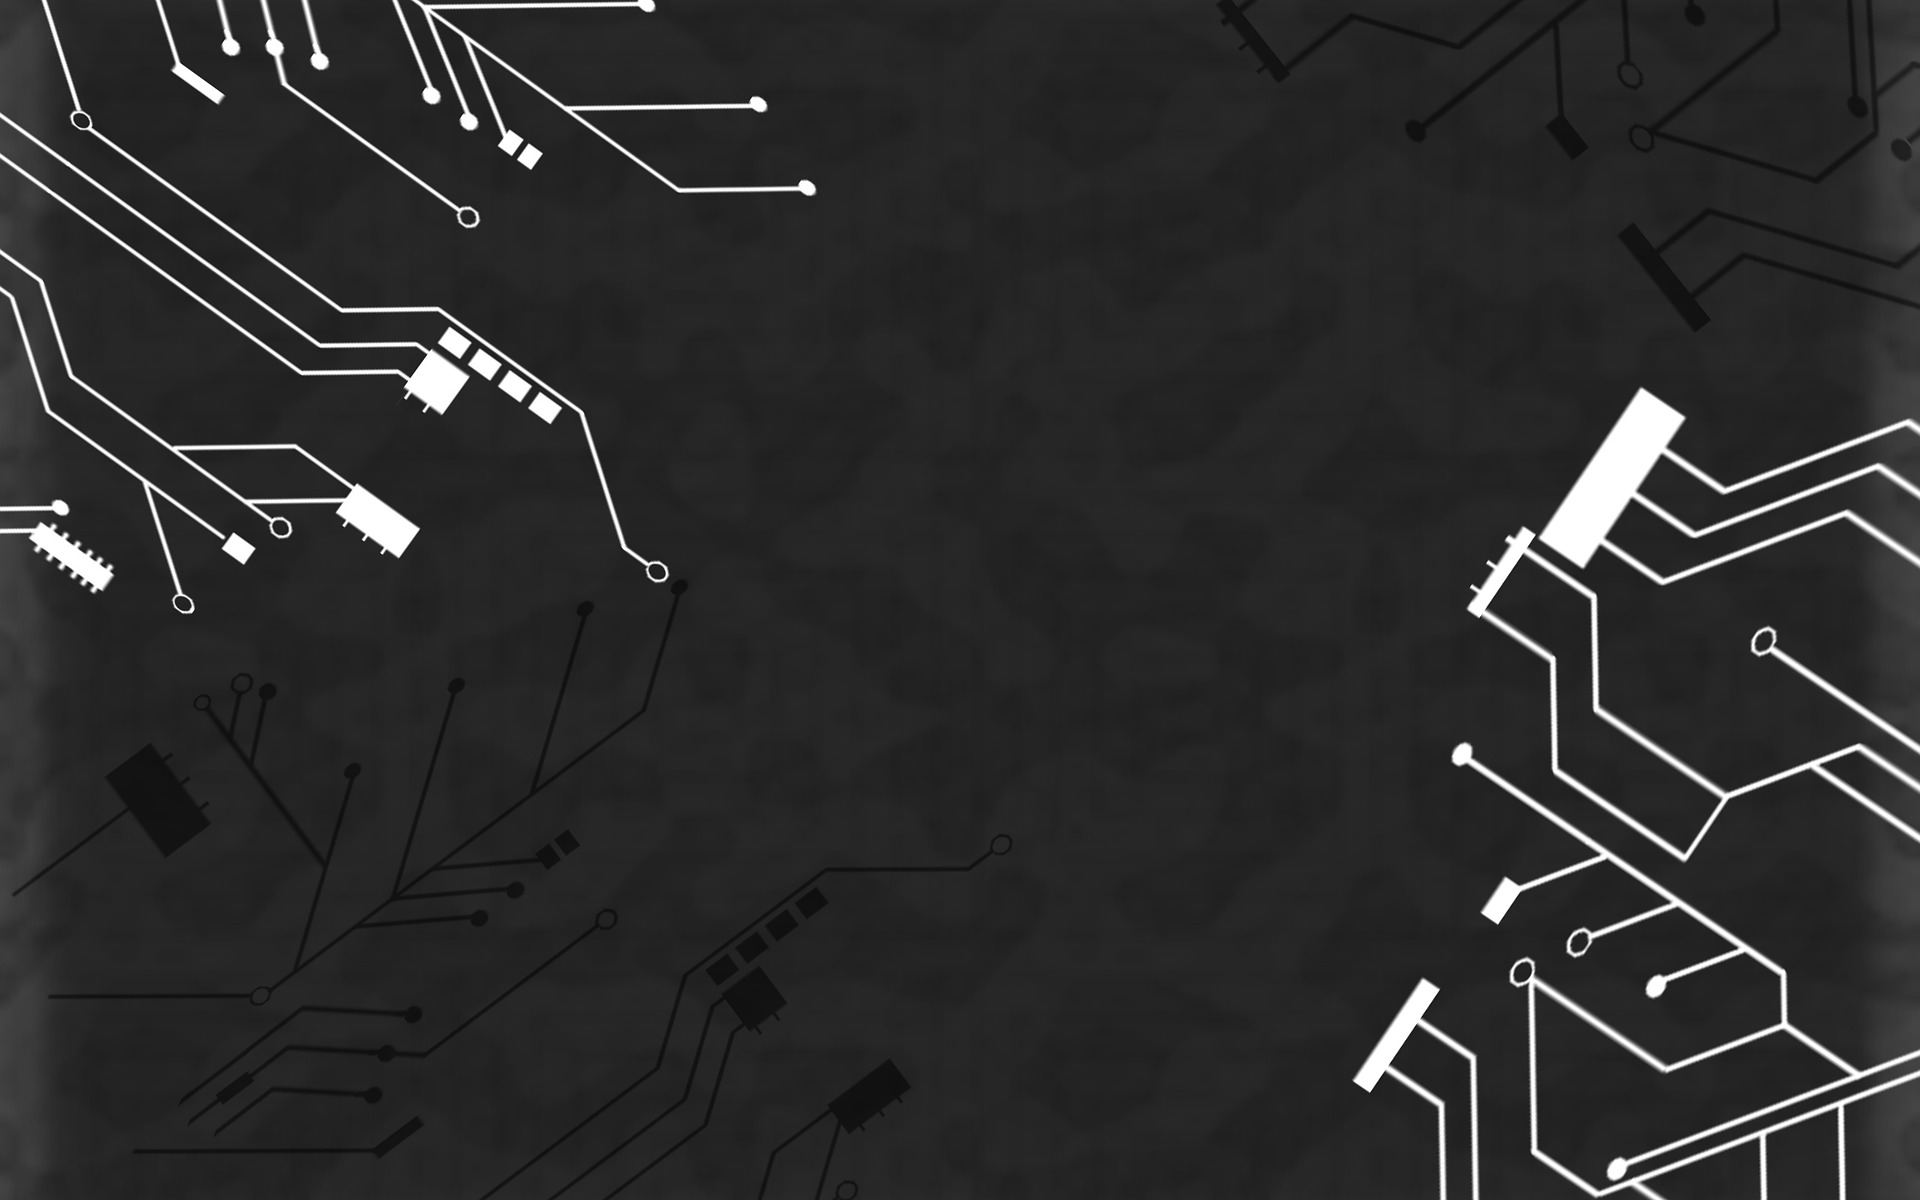
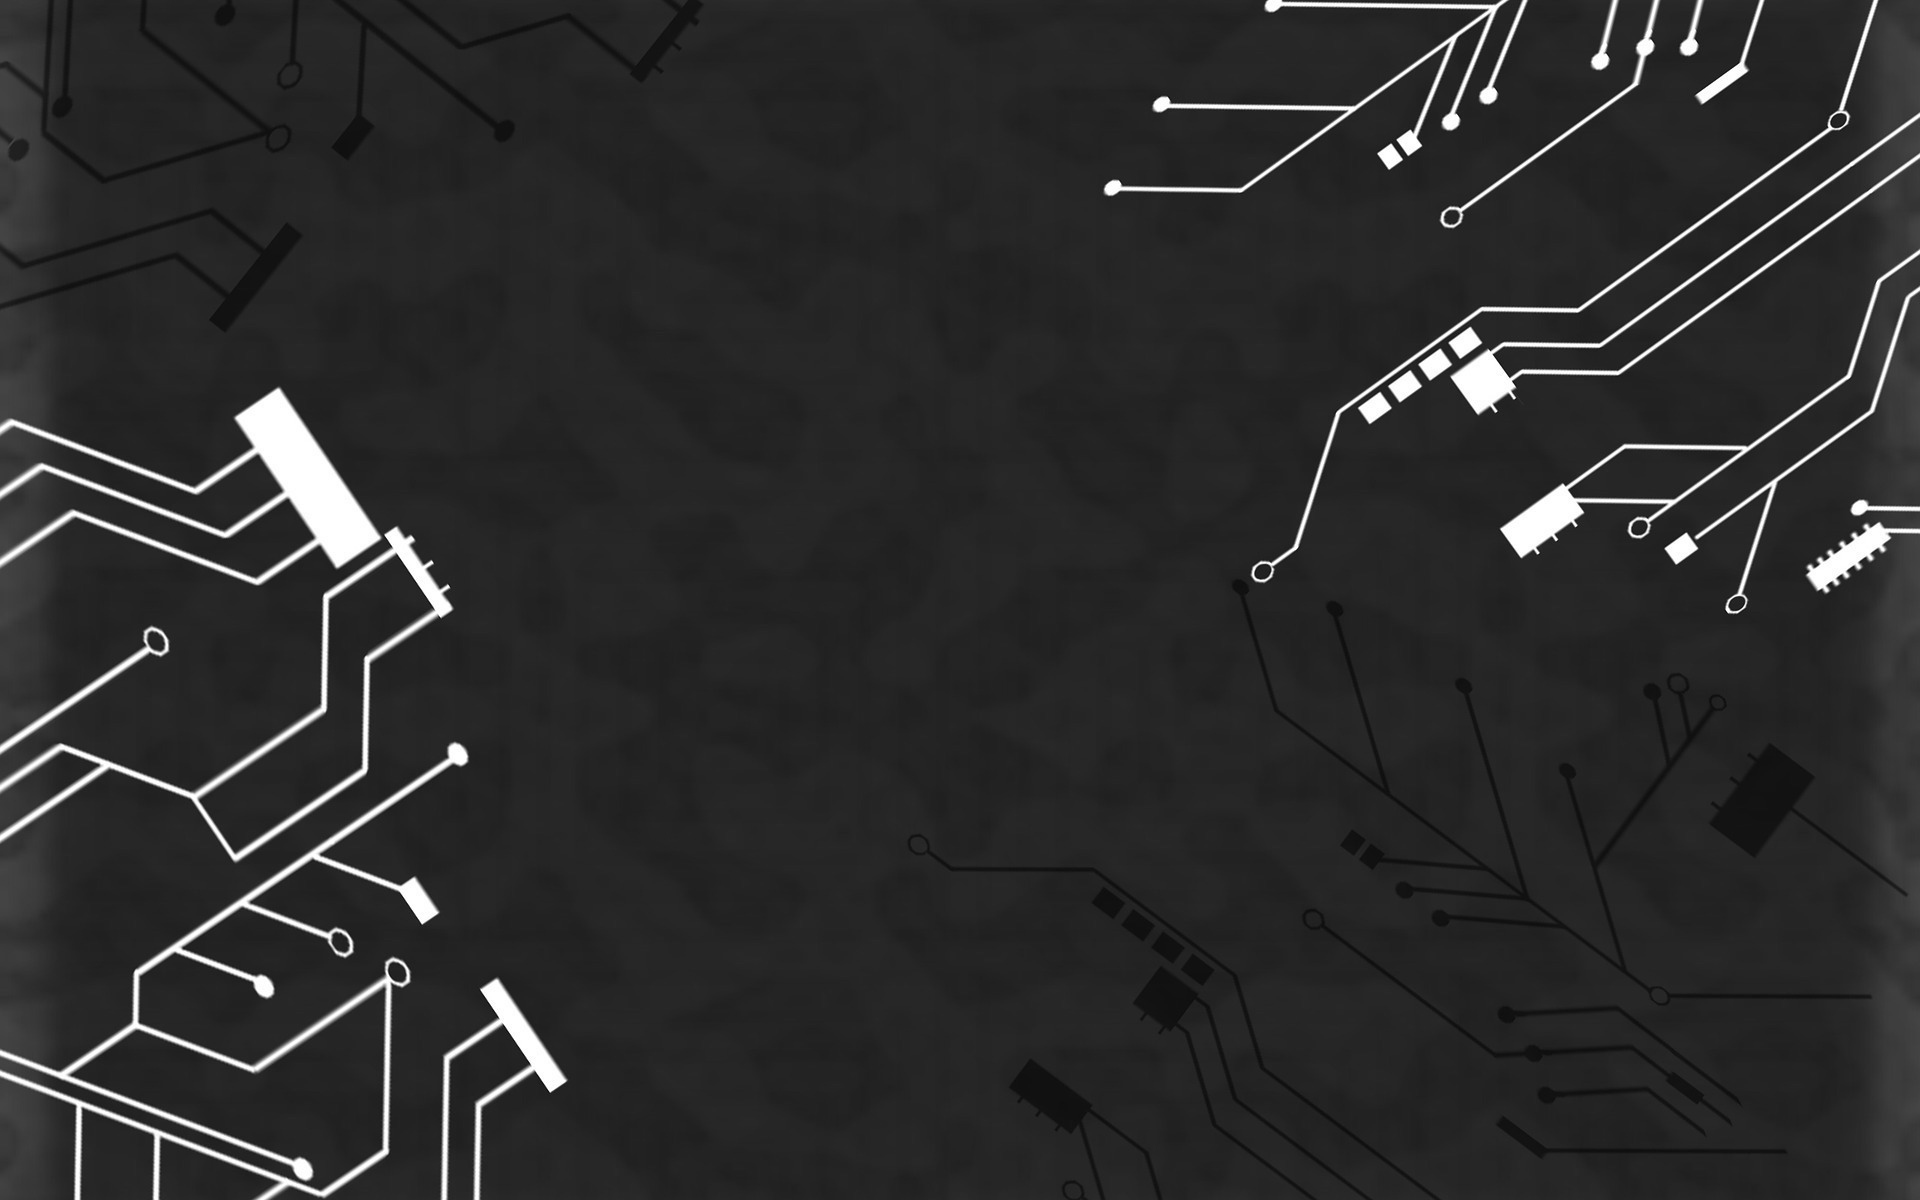
contact buttons and hover updated

diff --git a/app/public/index.html b/app/public/index.html
@@ -24,10 +24,13 @@
     <script src="https://maxcdn.bootstrapcdn.com/bootstrap/3.3.7/js/bootstrap.min.js" integrity="sha384-Tc5IQib027qvyjSMfHjOMaLkfuWVxZxUPnCJA7l2mCWNIpG9mGCD8wGNIcPD7Txa" crossorigin="anonymous"></script>
 
     <!-- jQuery -->
-    <script src="http://ajax.googleapis.com/ajax/libs/jquery/1.5.1/jquery.min.js"></script>
+    <script src="https://ajax.googleapis.com/ajax/libs/jquery/3.2.1/jquery.min.js"></script>
+    <script src="https://maxcdn.bootstrapcdn.com/bootstrap/3.3.7/js/bootstrap.min.js"></script>
 
     <!--Style CSS -->
     <link rel="stylesheet" type="text/css" href="./css/style.css">
+
+
 
 </head>
 
@@ -51,14 +54,10 @@
         <div class="site-wrapper-inner">
 
             <div class="cover-container">
-                <div class="inner cover">
-                    <div class="page-header">
-                        <h1>{ADM} <small>ASHLEY D MACWHIRTER</small></h1>
-                    </div>
+                        <h1 class="adm">{ADM} <small>ASHLEY D MACWHIRTER</small></h1>
                     <p class="lead">
                         <h2><small>FULL STACK WEB DEVELOPER</small></h1>
                     </p>
-                </div>
             </div>
         </div>
     </div>
@@ -98,20 +97,20 @@
                             <div class="well well-lg">
                                 <h3>Front-End</h3>
                                 <hr>
-                                <i class="devicon devicon-html5-plain colored"></i>
-                                <i class="devicon devicon-css3-plain colored"></i>
-                                <i class="devicon devicon-atom-original colored"></i>
-                                <i class="devicon devicon-babel-plain colored"></i>
-                                <i class="devicon devicon-bootstrap-plain colored"></i>
-                                <i class="devicon devicon-d3js-plain colored"></i>
-                                <i class="devicon devicon-gimp-plain colored"></i>
-                                <i class="devicon devicon-javascript-plain colored"></i>
-                                <i class="devicon devicon-jquery-plain colored"></i>
-                                <i class="devicon devicon-meteor-plain colored"></i>
-                                <i class="devicon devicon-photoshop-plain colored"></i>
-                                <i class="devicon devicon-react-original colored"></i>
-                                <i class="devicon devicon-visualstudio-plain colored"></i>
-                                <i class="devicon devicon-nodejs-plain colored"></i>
+                                <i class="devicon devicon-html5-plain colored" data-toggle="tooltip" data-placement="bottom" title="HTML5"></i>
+                                <i class="devicon devicon-css3-plain colored" data-toggle="tooltip" data-placement="bottom" title="CSS3"></i>
+                                <i class="devicon devicon-atom-original colored" data-toggle="tooltip" data-placement="bottom" title="Atom"></i>
+                                <i class="devicon devicon-babel-plain colored" data-toggle="tooltip" data-placement="bottom" title="Babel"></i>
+                                <i class="devicon devicon-bootstrap-plain colored" data-toggle="tooltip" data-placement="bottom" title="Bootstrap"></i>
+                                <i class="devicon devicon-d3js-plain colored" data-toggle="tooltip" data-placement="bottom" title="D3"></i>
+                                <i class="devicon devicon-gimp-plain colored" data-toggle="tooltip" data-placement="bottom" title="Gimp"></i>
+                                <i class="devicon devicon-javascript-plain colored" data-toggle="tooltip" data-placement="bottom" title="JavaScript"></i>
+                                <i class="devicon devicon-jquery-plain colored" data-toggle="tooltip" data-placement="bottom" title="jQuery"></i>
+                                <i class="devicon devicon-meteor-plain colored" data-toggle="tooltip" data-placement="bottom" title="Meteor"></i>
+                                <i class="devicon devicon-photoshop-plain colored" data-toggle="tooltip" data-placement="bottom" title="Photoshop"></i>
+                                <i class="devicon devicon-react-original colored" data-toggle="tooltip" data-placement="bottom" title="React"></i>
+                                <i class="devicon devicon-visualstudio-plain colored" data-toggle="tooltip" data-placement="bottom" title="Visual Studio"></i>
+                                <i class="devicon devicon-nodejs-plain colored" data-toggle="tooltip" data-placement="bottom" title="Node.js"></i>
 
                             </div>
                         </div>
@@ -119,16 +118,16 @@
                             <div class="well well-lg">
                                 <h3>Back-End</h3>
                                 <hr>
-                                <i class="devicon devicon-csharp-plain colored"></i>
-                                <i class="devicon devicon-github-plain"></i>
-                                <i class="devicon devicon-gitlab-plain colored"></i>
-                                <i class="devicon devicon-git-plain colored"></i>
-                                <i class="devicon devicon-heroku-plain colored"></i>
-                                <i class="devicon devicon-mongodb-plain colored"></i>
-                                <i class="devicon devicon-mysql-plain colored"></i>
-                                <i class="devicon devicon-sequelize-plain colored"></i>
-                                <i class="devicon devicon-webpack-plain colored"></i>
-                                <i class="devicon devicon-dot-net-plain colored"></i>
+                                <i class="devicon devicon-csharp-plain colored" data-toggle="tooltip" data-placement="bottom" title="C#"></i>
+                                <i class="devicon devicon-github-plain" data-toggle="tooltip" data-placement="bottom" title="GitHub"></i>
+                                <i class="devicon devicon-gitlab-plain colored" data-toggle="tooltip" data-placement="bottom" title="GitLab"></i>
+                                <i class="devicon devicon-git-plain colored" data-toggle="tooltip" data-placement="bottom" title="Git"></i>
+                                <i class="devicon devicon-heroku-plain colored" data-toggle="tooltip" data-placement="bottom" title="Heroku"></i>
+                                <i class="devicon devicon-mongodb-plain colored" data-toggle="tooltip" data-placement="bottom" title="MongoDB"></i>
+                                <i class="devicon devicon-mysql-plain colored" data-toggle="tooltip" data-placement="bottom" title="mySQL"></i>
+                                <i class="devicon devicon-sequelize-plain colored" data-toggle="tooltip" data-placement="bottom" title="Sequelize"></i>
+                                <i class="devicon devicon-webpack-plain colored" data-toggle="tooltip" data-placement="bottom" title="Webpack"></i>
+                                <i class="devicon devicon-dot-net-plain colored" data-toggle="tooltip" data-placement="bottom" title=".NET"></i>
 
                             </div>
                         </div>
@@ -182,46 +181,23 @@
                     <div class="row">
                         <h2> CONTACT ME <span class="text-muted"> {say hello}</span></h2><br>
                         <h4>Ashley D. MacWhirter</h4>
-                        <h4>contact@amacwhirter.com</h4>
-                        <h4>(256) 975-8929</h4>
-                        <h4>Atlanta, Georgia</h4><br>
-                        <a href="https://github.com/amacwhirter" class="fa fa-github" aria-hidden="true" target="_blank"></a>
-                        <a href="https://www.linkedin.com/in/amacwhirter/" class="fa fa-linkedin-square" aria-hidden="true" target="_blank"></a>
-                        <a href="https://stackoverflow.com/users/7396764/ashley-macwhirter" class="fa fa-stack-overflow" aria-hidden="true" target="_blank"></a>
-                        <a href="#" class="fa fa-file-pdf-o" aria-hidden="true"></a>
-                        <a href="#" class="fa fa-envelope" aria-hidden="true"></a>
+                        <h4><i class="fa fa-envelope" aria-hidden="true"></i>  contact@amacwhirter.com
+                        <i class="fa fa-phone" aria-hidden="true"></i> (256) 975-8929
+                        <i class="fa fa-map-marker" aria-hidden="true"></i> Atlanta, Georgia</h4><br>
+                        <a href="https://github.com/amacwhirter" class="fa fa-github" aria-hidden="true" target="_blank" data-toggle="tooltip" data-placement="left" title="GitHub"></a>
+                        <a href="https://www.linkedin.com/in/amacwhirter/" class="fa fa-linkedin-square" aria-hidden="true" target="_blank" data-toggle="tooltip" data-placement="left" title="LinkedIn"></a>
+                        <a href="https://stackoverflow.com/users/7396764/ashley-macwhirter" class="fa fa-stack-overflow" aria-hidden="true" target="_blank" data-toggle="tooltip" data-placement="left" title="StackOverflow"></a>
+                        <a href="/images/amacwhirter.pdf" download class="fa fa-file-pdf-o" aria-hidden="true" data-toggle="tooltip" data-placement="left" title="Download My Resume"></a>
+                        <a href="mailto:contact@amacwhirter.com?Subject=Hello Ashley!" target="_top" class="fa fa-envelope-o" aria-hidden="true" data-toggle="tooltip" data-placement="left" title="Send Me An Email"></a>
 
                 </section>
             </section>
+          </div>
 
             <div class="footer">
                 <div class="inner">
                     © 2017 Copyright: <a href="/index"> amacwhirter.com </a>
                 </div>
-            </div>
-
-
-            <!-- Modal -->
-            <div class="modal fade" id="projectModal" tabindex="-1" role="dialog" aria-labelledby="projectModalLabel" aria-hidden="true">
-                <div class="modal-dialog" role="document">
-                    <div class="modal-content">
-                        <div class="modal-header">
-                            <h5 class="modal-title" id="exampleModalLabel">Project Modal</h5>
-                            <button type="button" class="close" data-dismiss="modal" aria-label="Close">
-                          <span aria-hidden="true">&times;</span>
-                        </button>
-                        </div>
-                        <div class="modal-body">
-                            ...
-                        </div>
-                        <div class="modal-footer">
-                            <button type="button" class="btn btn-secondary" data-dismiss="modal">Close</button>
-                            <button type="button" class="btn btn-primary">Save changes</button>
-                        </div>
-                    </div>
-                </div>
-            </div>
-
             </div>
 
             <!-- SCRIPTS -->

diff --git a/app/public/css/style.css b/app/public/css/style.css
@@ -31,7 +31,7 @@ h1 {
 html,
 body {
   height: 100%;
-  background-color: black;
+  background-color: #121212;
 }
 body {
   color: #fff;
@@ -40,12 +40,12 @@ body {
 }
 
 .container {
-  background-color: black;
+  background-color: #121212;
 }
 
 /* Extra markup and styles for table-esque vertical and horizontal centering */
 .site-wrapper {
-  background-image: url("../images/background2.png");
+  background-image: url("../images/background3.jpg");
   background-size: cover;
   display: table;
   width: 100%;
@@ -61,11 +61,6 @@ body {
 .cover-container {
   margin-right: auto;
   margin-left: auto;
-}
-
-/* Padding for spacing */
-.inner {
-  padding: 30px;
 }
 
 
@@ -86,6 +81,12 @@ body {
  * Footer
  */
 
+.footer {
+  background-image: url("../images/background3.jpg");
+  background-size: cover;
+  padding-bottom: 30px;
+  padding-top: 30px;
+}
 
 
 
@@ -112,9 +113,11 @@ body {
 
 .devicon {
   font-size: 50px;
-  margin: 25px;
+  margin: 40px;
   line-height: 1.5;
 }
+
+.desc {display: none;}
 
 .well {
   background: #1a1a1a;
@@ -189,7 +192,7 @@ header{
 span{padding-left:20px;}
 a{color:#336699;}
 
-.page-header, h2, h3 {
+.page-header, h2, h3, h1 {
   font-family: 'Stardos Stencil', cursive;
 }
 
@@ -197,6 +200,54 @@ a{color:#336699;}
   padding-top: 130px;
 }
 
+.adm {
+  color: orangered;
+}
+
+.sub {
+  color: white;
+}
+
+.text-muted {
+    color: orangered;
+    font-size: 25px;
+}
+
+/*
+ * Contact Icons
+ */
+
+.fa-github, .fa-linkedin-square, .fa-stack-overflow, .fa-file-pdf-o, .fa-envelope-o {
+  background:none;
+  position:fixed;
+  right:30px;
+  line-height:45px;
+  padding:5px 15px 0px 15px;
+  border:0;
+  font-size:2.5em;
+  outline:none;
+  z-index:10000000000000;
+  color: steelblue;
+}
+.fa-github {
+  bottom:280px;
+}
+
+.fa-linkedin-square {
+  bottom:230px;
+}
+
+.fa-stack-overflow {
+  bottom:180px;
+}
+
+.fa-file-pdf-o {
+  bottom:130px;
+}
+
+.fa-envelope-o{
+  bottom:80px;
+}
 
 /*
  * Sections

diff --git a/app/public/javascript/app.js b/app/public/javascript/app.js
@@ -23,4 +23,5 @@ $(document).ready(function() {
         });
     });
 
+    $('[data-toggle="tooltip"]').tooltip({container: 'body'});
 });
